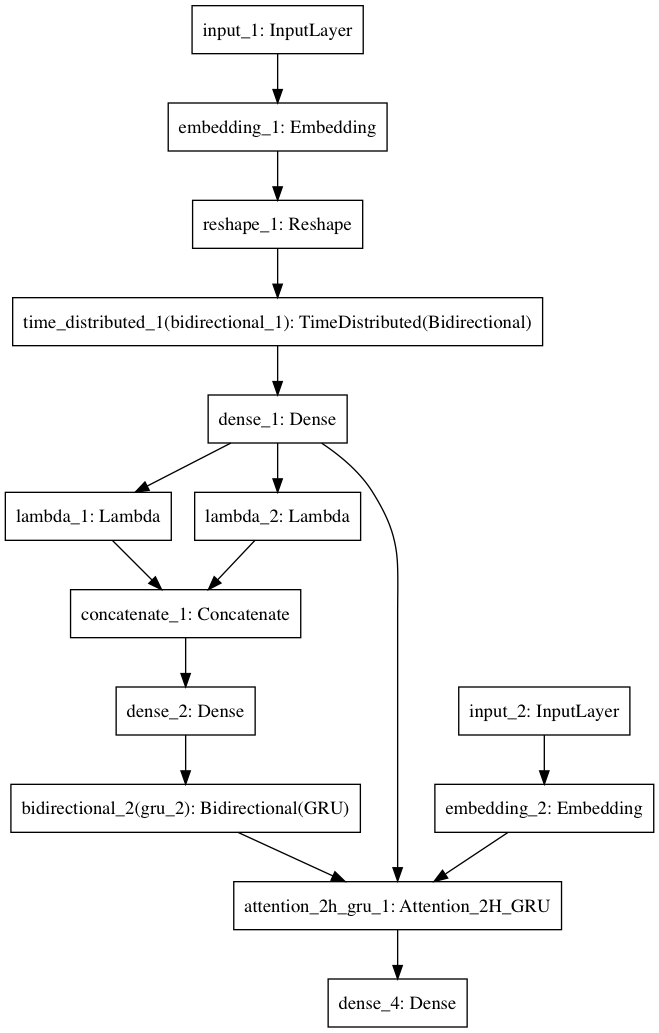
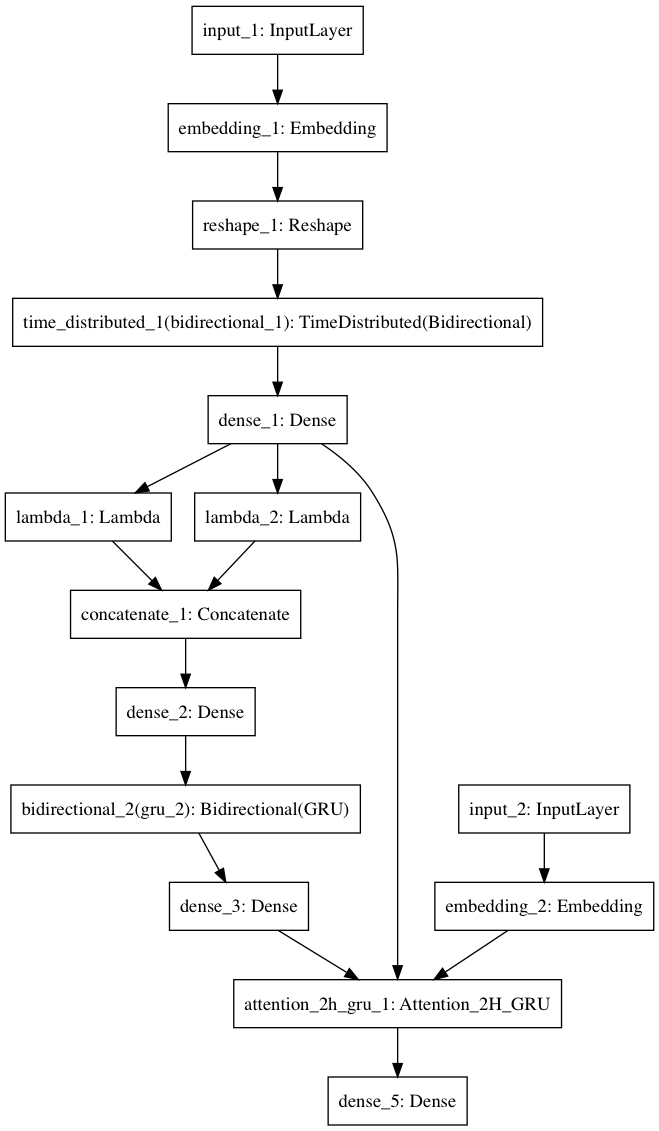
2017-10-10 c -> output

Changed region(s): [[0.0, 0.0, 1.0, 1.0]]

diff --git a/MyLayers.py b/MyLayers.py
@@ -488,9 +488,9 @@ class Attention_2H_GRU(Layer):
         self.att_s_dim = input_shape[1][2]      # Attention for sens
         self.att_w_dim = input_shape[2][3]      # Attention for words
         self.input_spec = [InputSpec(shape=(batch_size, None, self.input_dim)), InputSpec(shape=(batch_size, self.sens, self.att_s_dim)), InputSpec(shape=(batch_size, self.sens, None, self.att_w_dim))]
-        self.state_spec = InputSpec(shape=(batch_size, self.units))
+        self.state_spec = [InputSpec(shape=(batch_size, self.units)), InputSpec(shape=(batch_size, self.units))]
 
-        self.states = [None]
+        self.states = [None, None]
 
         # W_xz, W_xr, W_xh
         self.W_xA = self.add_weight((self.input_dim, self.units * 3),
@@ -616,17 +616,18 @@ class Attention_2H_GRU(Layer):
 
         self.built = True
 
-    def call(self, inputs, mask=None, initial_state=None, training=None):
+    def call(self, inputs, mask=None, initial_state_h=None, training=None):
         constants = self.get_constants(inputs, mask, training=None)         # [dp_mask, rec_dp_mask, att_sens, att_words, att_words_mask]
         preprocessed_input = self.preprocess_input(inputs, training=None)
         input_shape = K.int_shape(inputs[0])
 
-        if initial_state == None:
-            initial_state = self.get_initial_states(inputs)
+        if initial_state_h == None:
+            initial_state_h = self.get_initial_states(inputs)
+        initial_state_c = self.get_initial_states(inputs)
 
         last_output, outputs, states = K.rnn(self.step,
                                              preprocessed_input,
-                                             initial_state,
+                                             [initial_state_h, initial_state_c],
                                              go_backwards=self.go_backwards,
                                              mask=mask[0],
                                              constants=constants,
@@ -704,15 +705,16 @@ class Attention_2H_GRU(Layer):
         initial_state = K.sum(initial_state, axis=(1, 2))  # (samples,)
         initial_state = K.expand_dims(initial_state)  # (samples, 1)
         initial_state = K.tile(initial_state, [1, self.units])  # (samples, output_dim)
-        initial_states = [initial_state for _ in range(len(self.states))]
-        return initial_states
+        # initial_states = [initial_state for _ in range(len(self.states))]
+        return initial_state
 
     def step(self, inputs, states):
-        h_tm1 = states[0]       # previous memory
-        dp_mask = states[1]     # dropout matrices for recurrent units
-        rec_dp_mask = states[2]
-        att_sens = states[3]    # hidden states for sens (high layer)
-        att_words = states[4]   # hiddem states for words (low layer)
+        h_tm1 = states[0]
+        c_tm1 = states[1]       # previous memory
+        dp_mask = states[2]     # dropout matrices for recurrent units
+        rec_dp_mask = states[3]
+        att_sens = states[4]    # hidden states for sens (high layer)
+        att_words = states[5]   # hiddem states for words (low layer)
         # att_words_mask = states[5]  # mask for 'att_words'
 
         # h_tm1 = (batch, dim)
@@ -734,39 +736,43 @@ class Attention_2H_GRU(Layer):
         # c = alpha * beta * att_words                        # c = (batch, sens, timesteps, dim)
         # c = K.sum(K.sum(c, axis=2), axis=1)                 # c = (batch, dim)
 
-        _shp = K.int_shape(att_words)                       # _shp = tuple(batch, sens, timesteps, dim)
-        _h_tm1 = K.expand_dims(h_tm1, axis=1)               # _h_tm1 = (batch, 1, dim)
-        _h_tm1 = K.tile(_h_tm1, (1, _shp[1], 1))             # _h_tm1 = (batch, sens, dim)
+        x_z = inputs[:, :self.units]
+        x_r = inputs[:, self.units: 2 * self.units]
+        x_h = inputs[:, 2 * self.units:]
 
-        alpha = K.concatenate([_h_tm1, att_sens])           # alpha = (batch, sens, 2 * dim)
+        print 'h_tm1 = ' + str(h_tm1)
+        print 'c_tm1 = ' + str(c_tm1)
+
+        z = self.recurrent_activation(x_z + K.dot(h_tm1 * rec_dp_mask[0], self.W_hz) + K.dot(c_tm1, self.W_cz))
+        r = self.recurrent_activation(x_r + K.dot(h_tm1 * rec_dp_mask[1], self.W_hr) + K.dot(c_tm1, self.W_cr))
+        h_ = self.activation(x_h + K.dot(r * h_tm1 * rec_dp_mask[2], self.W_hh) + K.dot(c_tm1, self.W_ch))
+
+        h = z * h_tm1 + (1 - z) * h_
+
+
+        _shp = K.int_shape(att_words)                       # _shp = tuple(batch, sens, timesteps, dim)
+        _h = K.expand_dims(h, axis=1)                       # _h = (batch, 1, dim)
+        _h = K.tile(_h, (1, _shp[1], 1))                    # _h = (batch, sens, dim)
+
+        alpha = K.concatenate([_h, att_sens])               # alpha = (batch, sens, 2 * dim)
         for i in range(self.att_layers_cnt):
             alpha = K.relu(K.bias_add(K.dot(alpha, self.att_h2_kernel_list[i]), self.att_h2_bias_list[i]))
                                                             # alpha = (batch, sens, 1)
         alpha = K.expand_dims(alpha)                        # alpha = (batch, sens, 1, 1)
 
 
-        _h_tm1 = K.expand_dims(_h_tm1, axis=2)
-        _h_tm1 = K.tile(_h_tm1, (1, 1, _shp[2], 1))
-        beta = K.concatenate([_h_tm1, att_words])
+        _h = K.expand_dims(_h, axis=2)
+        _h = K.tile(_h, (1, 1, _shp[2], 1))
+        beta = K.concatenate([_h, att_words])
         for i in range(self.att_layers_cnt):
             beta = K.relu(K.bias_add(K.dot(beta, self.att_h1_kernel_list[i]), self.att_h1_bias_list[i]))
                                                             # beta = (batch, sens, timesteps, 1)
         c = alpha * beta * att_words                        # c = (batch, sens, timesteps, dim)
-        c = K.sum(K.sum(c, axis=2), axis=1)                 # c = (batch, dim)
-
-        x_z = inputs[:, :self.units]
-        x_r = inputs[:, self.units: 2 * self.units]
-        x_h = inputs[:, 2 * self.units:]
-
-        z = self.recurrent_activation(x_z + K.dot(h_tm1 * rec_dp_mask[0], self.W_hz) + K.dot(c, self.W_cz))
-        r = self.recurrent_activation(x_r + K.dot(h_tm1 * rec_dp_mask[1], self.W_hr) + K.dot(c, self.W_cr))
-        h_ = self.activation(x_h + K.dot(r * h_tm1 * rec_dp_mask[2], self.W_hh) + K.dot(c, self.W_ch))
-
-        h = z * h_tm1 + (1 - z) * h_
+        c = K.sum(K.sum(c, axis=2), axis=1)                 # c = (batch, dim)        
 
         if 0 < self.dropout + self.recurrent_dropout:
             h._uses_learning_phase = True
-        return h, [h]
+        return h, [h, c]
 
     def get_config(self):
         config = {'units': self.units,

diff --git a/MyModels.py b/MyModels.py
@@ -218,6 +218,7 @@ def BiGRU_Attention_Ref_2H_AutoEncoder(id2v, Sen_len=30, Max_sen=7, Title_len=15
     encode_h1_summ = Dense(h_dim, activation=None)(Concatenate()([encode_h1_first, encode_h1_last]))
     ## shape = (batch, Max_sen, h_dim)
     encode_h2 = Bidirectional(GRU(h_dim, return_sequences=True), merge_mode='concat')(encode_h1_summ)
+    encode_h2 = Dense(h_dim, activation=None)(encode_h2)
     ## shape = (batch, Max_sen, h_dim)
     encode_h2_first = Lambda(lambda x : x[:, 0, :], output_shape = lambda s : (s[0], s[2]))(encode_h2)
     encode_h2_last = Lambda(lambda x : x[:, -1, :], output_shape = lambda s : (s[0], s[2]))(encode_h2)
@@ -231,7 +232,7 @@ def BiGRU_Attention_Ref_2H_AutoEncoder(id2v, Sen_len=30, Max_sen=7, Title_len=15
     ref_emb = L_e2(ref_sen)
     ## shape = (batch, Title_len, wv_dim)
 
-    decode_seq = Attention_2H_GRU(h_dim, return_sequences=True, go_backwards=False)([ref_emb, encode_h2, encode_h1], initial_state=[encode_h2_summ])
+    decode_seq = Attention_2H_GRU(h_dim, return_sequences=True, go_backwards=False)([ref_emb, encode_h2, encode_h1], initial_state_h=encode_h2_summ)
     ## shape = (batch, Title_len, h_dim)
 
     # step_id = Input(shape=(1,))
@@ -242,6 +243,6 @@ def BiGRU_Attention_Ref_2H_AutoEncoder(id2v, Sen_len=30, Max_sen=7, Title_len=15
     ## shape = (batch, Title_len, vocab_size)
 
     model = Model(inputs=[input_sen, ref_sen], outputs=output_dstrb)
-    model.compile(optimizer=RMSprop(), loss=m_SeqNLL)
+    model.compile(optimizer=RMSprop(lr=0.0002), loss=m_SeqNLL)
     model_show = Model(inputs=[input_sen, ref_sen], outputs=[input_emb, encode_h1, encode_h2, ref_emb, decode_seq, output_dstrb])
     return model, model_show

diff --git a/Paper-model-main.py b/Paper-model-main.py
@@ -48,7 +48,7 @@ def train_lstm(
 	model_show_file_name = '%s/%s.%s.h5' % (data_dir, prog_name, extra_name[1])
 	print 'Loading data'
 	input_file = '%s/Wid_data_divsens/wid_list.pkl' % data_dir
-	train, valid, test = load_data(input_file) if options['mode'] == 'train' else load_data(input_file, 500)
+	train, valid, test = load_data(input_file) if options['mode'] == 'train' else load_data(input_file, 1000)
 	id2v = cPickle.load(open('%s/id2v.pkl' % data_dir, 'r'))
 	id2v = np.matrix(id2v)
 
